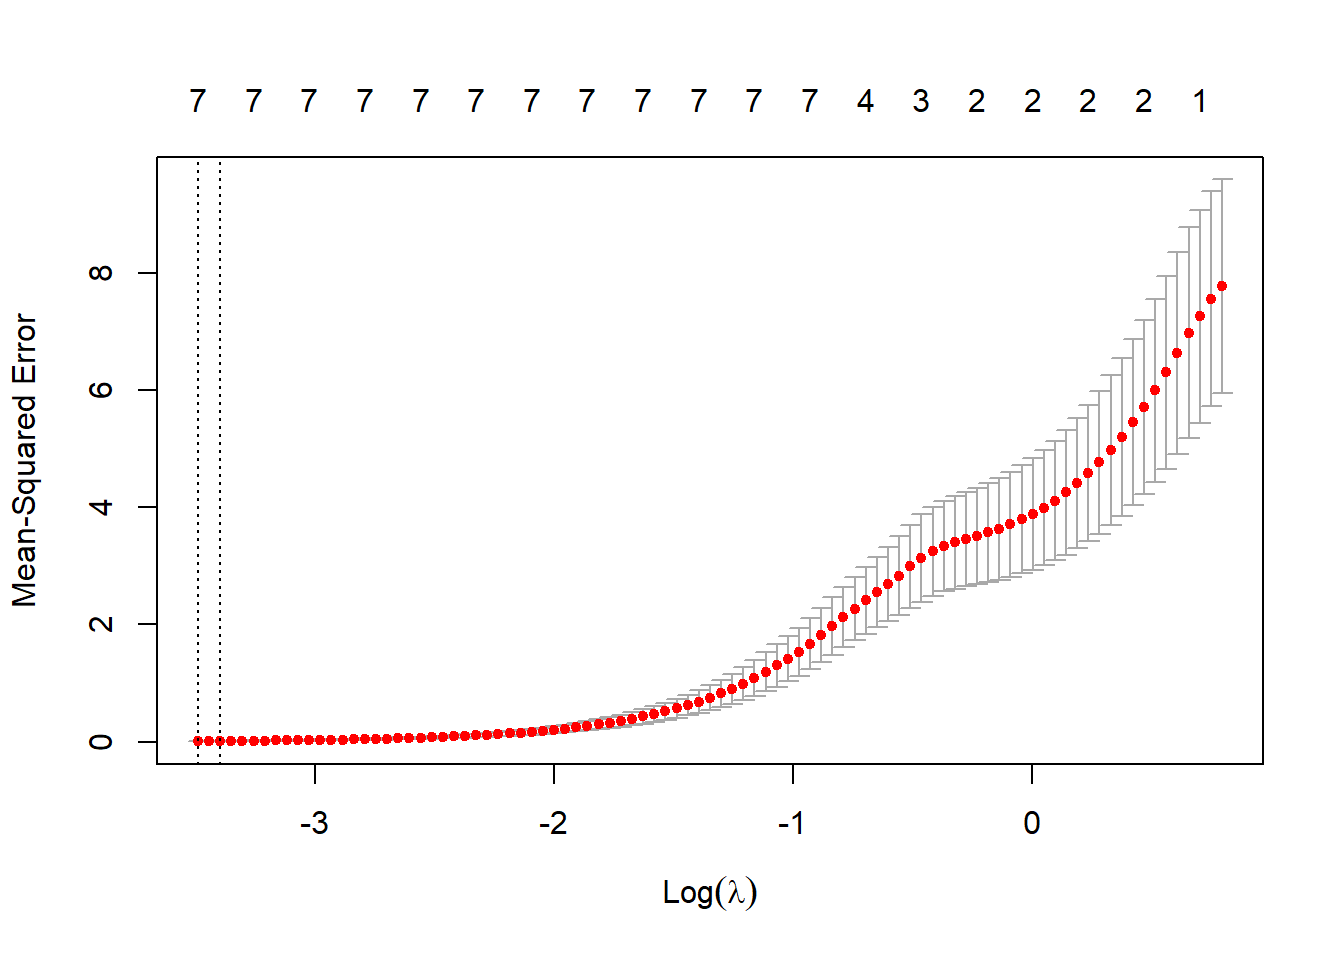
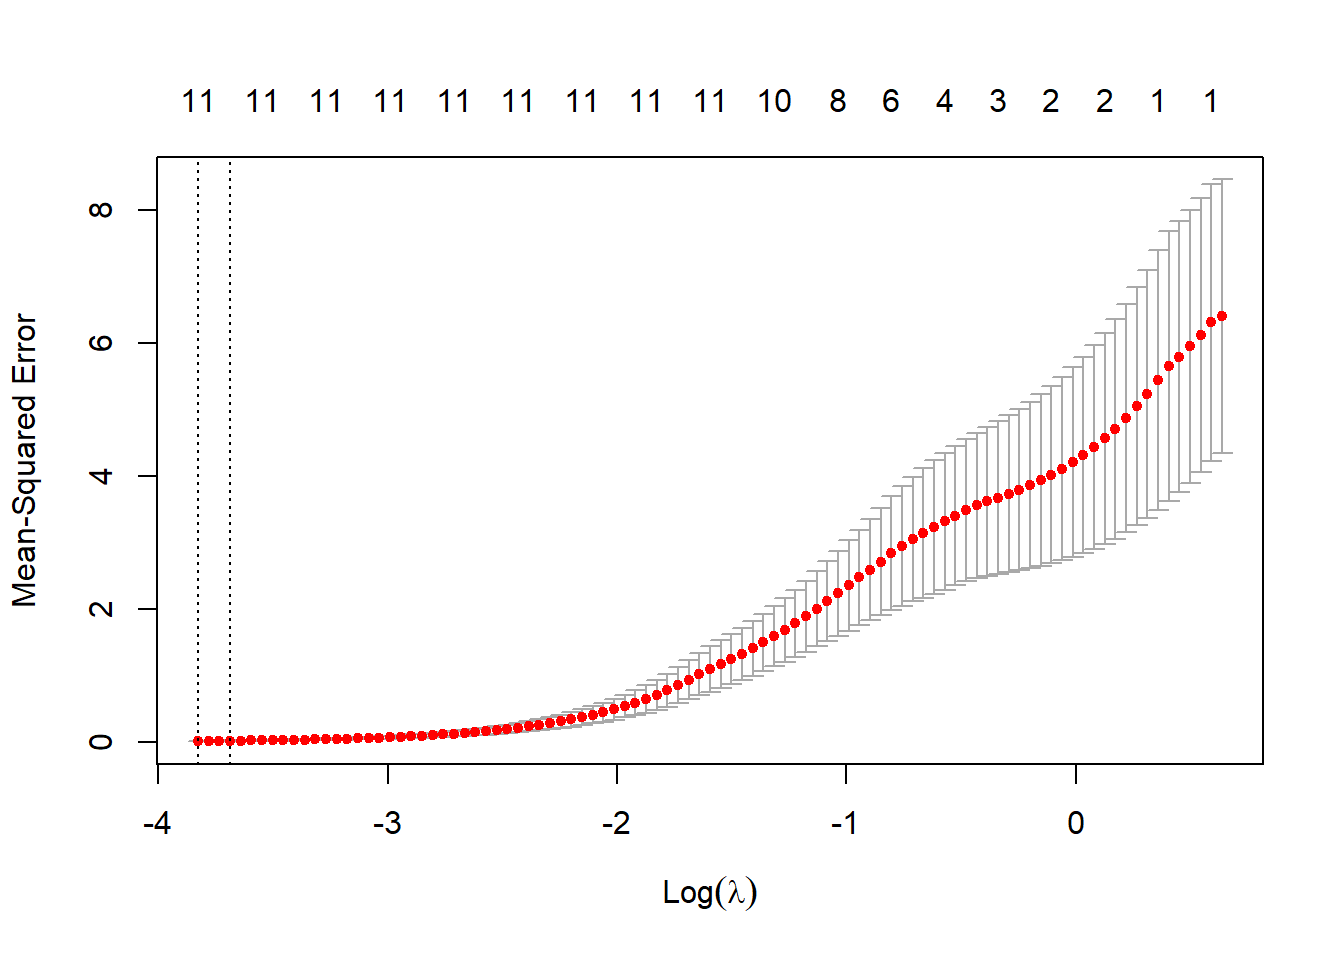
test

diff --git a/docs/HumanFreedomIndex.html b/docs/HumanFreedomIndex.html
@@ -7,7 +7,7 @@
 <meta name="viewport" content="width=device-width, initial-scale=1.0, user-scalable=yes">
 
 
-<title>An Overview of LASSO, Ridge, and Elastic Net Regularized Regression Methods - 5&nbsp; Human Freedom Index (High Dimensional Data Example)</title>
+<title>An Overview of LASSO, Ridge, and Elastic Net Regularized Regression Methods - 5&nbsp; High Dimensional Data Example with Human Freedom Index</title>
 <style>
 code{white-space: pre-wrap;}
 span.smallcaps{font-variant: small-caps;}
@@ -147,7 +147,7 @@ div.csl-indent {
   <header id="quarto-header" class="headroom fixed-top">
   <nav class="quarto-secondary-nav" data-bs-toggle="collapse" data-bs-target="#quarto-sidebar" aria-controls="quarto-sidebar" aria-expanded="false" aria-label="Toggle sidebar navigation" onclick="if (window.quartoToggleHeadroom) { window.quartoToggleHeadroom(); }">
     <div class="container-fluid d-flex justify-content-between">
-      <h1 class="quarto-secondary-nav-title"><span class="chapter-number">5</span>&nbsp; <span class="chapter-title">Human Freedom Index (High Dimensional Data Example)</span></h1>
+      <h1 class="quarto-secondary-nav-title"><span class="chapter-number">5</span>&nbsp; <span class="chapter-title">High Dimensional Data Example with Human Freedom Index</span></h1>
       <button type="button" class="quarto-btn-toggle btn" aria-label="Show secondary navigation">
         <i class="bi bi-chevron-right"></i>
       </button>
@@ -230,7 +230,7 @@ div.csl-indent {
 
 <header id="title-block-header" class="quarto-title-block default">
 <div class="quarto-title">
-<h1 class="title d-none d-lg-block"><span class="chapter-number">5</span>&nbsp; <span class="chapter-title">Human Freedom Index (High Dimensional Data Example)</span></h1>
+<h1 class="title d-none d-lg-block"><span class="chapter-number">5</span>&nbsp; <span class="chapter-title">High Dimensional Data Example with Human Freedom Index</span></h1>
 </div>
 
 
@@ -273,7 +273,7 @@ div.csl-indent {
 <span id="cb1-18"><a href="#cb1-18" aria-hidden="true" tabindex="-1"></a>predictors <span class="ot">&lt;-</span> <span class="fu">data.matrix</span>(xtrain)</span>
 <span id="cb1-19"><a href="#cb1-19" aria-hidden="true" tabindex="-1"></a>resp <span class="ot">&lt;-</span> ytrain</span>
 <span id="cb1-20"><a href="#cb1-20" aria-hidden="true" tabindex="-1"></a></span>
-<span id="cb1-21"><a href="#cb1-21" aria-hidden="true" tabindex="-1"></a>linModel <span class="ot">&lt;-</span> <span class="fu">lm</span>(hf_score<span class="sc">~</span>., <span class="at">data=</span>xtrainLin)</span></code><button title="Copy to Clipboard" class="code-copy-button"><i class="bi"></i></button></pre></div>
+<span id="cb1-21"><a href="#cb1-21" aria-hidden="true" tabindex="-1"></a>linModel <span class="ot">&lt;-</span> <span class="fu">lm</span>(pf_ss_homicide<span class="sc">~</span>., <span class="at">data=</span>xtrainLin)</span></code><button title="Copy to Clipboard" class="code-copy-button"><i class="bi"></i></button></pre></div>
 </div>
 <p><img src="images/HFIModel1.png" class="img-fluid" data-fig-align="center" alt="Model Output"> <img src="images/HFModel2.png" class="img-fluid" data-fig-align="center" alt="Model Output"></p>
 <p>The figures above the show the outcome of trying to fit a traditional linear model to the data as it is. The model is not workable due to a lack of degrees of freedom to fit the number of predictors in the data set. In this case, the number of predictors could be trimmed at random to get a working model, but the regularization techniques can be used to evaluate this data set without randomly choosing predictors.</p>
@@ -291,14 +291,15 @@ div.csl-indent {
 <li>Store results and display scores for each method.</li>
 </ul>
 <div class="cell">
-<div class="sourceCode cell-code" id="cb2"><pre class="sourceCode r code-with-copy"><code class="sourceCode r"><span id="cb2-1"><a href="#cb2-1" aria-hidden="true" tabindex="-1"></a><span class="co">#LASSO</span></span>
-<span id="cb2-2"><a href="#cb2-2" aria-hidden="true" tabindex="-1"></a>modelResults <span class="ot">&lt;-</span> <span class="fu">data.frame</span>(<span class="fu">matrix</span>(<span class="at">ncol=</span><span class="dv">6</span>,<span class="at">nrow=</span><span class="dv">0</span>))</span>
-<span id="cb2-3"><a href="#cb2-3" aria-hidden="true" tabindex="-1"></a><span class="fu">colnames</span>(modelResults)<span class="ot">&lt;-</span><span class="fu">c</span>(<span class="st">"Model"</span>,<span class="st">"Train_RSquare"</span>,<span class="st">"Train_RMSE"</span>,<span class="st">"Test_RSquare"</span>,<span class="st">"Test_RMSE"</span>,<span class="st">"CoefficientCount"</span>)</span>
-<span id="cb2-4"><a href="#cb2-4" aria-hidden="true" tabindex="-1"></a></span>
-<span id="cb2-5"><a href="#cb2-5" aria-hidden="true" tabindex="-1"></a>model <span class="ot">&lt;-</span> <span class="fu">cv.glmnet</span>(predictors, resp, <span class="at">alpha=</span><span class="dv">1</span>)</span>
-<span id="cb2-6"><a href="#cb2-6" aria-hidden="true" tabindex="-1"></a>bestLambda <span class="ot">&lt;-</span> model<span class="sc">$</span>lambda.min</span>
-<span id="cb2-7"><a href="#cb2-7" aria-hidden="true" tabindex="-1"></a><span class="co">#Optimal Lambda has been fit.</span></span>
-<span id="cb2-8"><a href="#cb2-8" aria-hidden="true" tabindex="-1"></a><span class="fu">plot</span>(model)</span></code><button title="Copy to Clipboard" class="code-copy-button"><i class="bi"></i></button></pre></div>
+<div class="sourceCode cell-code" id="cb2"><pre class="sourceCode r code-with-copy"><code class="sourceCode r"><span id="cb2-1"><a href="#cb2-1" aria-hidden="true" tabindex="-1"></a><span class="fu">set.seed</span>(<span class="dv">250</span>)</span>
+<span id="cb2-2"><a href="#cb2-2" aria-hidden="true" tabindex="-1"></a><span class="co">#LASSO</span></span>
+<span id="cb2-3"><a href="#cb2-3" aria-hidden="true" tabindex="-1"></a>modelResults <span class="ot">&lt;-</span> <span class="fu">data.frame</span>(<span class="fu">matrix</span>(<span class="at">ncol=</span><span class="dv">6</span>,<span class="at">nrow=</span><span class="dv">0</span>))</span>
+<span id="cb2-4"><a href="#cb2-4" aria-hidden="true" tabindex="-1"></a><span class="fu">colnames</span>(modelResults)<span class="ot">&lt;-</span><span class="fu">c</span>(<span class="st">"Model"</span>,<span class="st">"Train_RSquare"</span>,<span class="st">"Train_RMSE"</span>,<span class="st">"Test_RSquare"</span>,<span class="st">"Test_RMSE"</span>,<span class="st">"CoefficientCount"</span>)</span>
+<span id="cb2-5"><a href="#cb2-5" aria-hidden="true" tabindex="-1"></a></span>
+<span id="cb2-6"><a href="#cb2-6" aria-hidden="true" tabindex="-1"></a>model <span class="ot">&lt;-</span> <span class="fu">cv.glmnet</span>(predictors, resp, <span class="at">alpha=</span><span class="dv">1</span>)</span>
+<span id="cb2-7"><a href="#cb2-7" aria-hidden="true" tabindex="-1"></a>bestLambda <span class="ot">&lt;-</span> model<span class="sc">$</span>lambda.min</span>
+<span id="cb2-8"><a href="#cb2-8" aria-hidden="true" tabindex="-1"></a><span class="co">#Optimal Lambda has been fit.</span></span>
+<span id="cb2-9"><a href="#cb2-9" aria-hidden="true" tabindex="-1"></a><span class="fu">plot</span>(model)</span></code><button title="Copy to Clipboard" class="code-copy-button"><i class="bi"></i></button></pre></div>
 <div class="cell-output-display">
 <p><img src="HumanFreedomIndex_files/figure-html/unnamed-chunk-3-1.png" class="img-fluid" width="672"></p>
 </div>
@@ -447,30 +448,34 @@ div.csl-indent {
 <div class="sourceCode cell-code" id="cb7"><pre class="sourceCode r code-with-copy"><code class="sourceCode r"><span id="cb7-1"><a href="#cb7-1" aria-hidden="true" tabindex="-1"></a><span class="fu">print</span>(modelResults)</span></code><button title="Copy to Clipboard" class="code-copy-button"><i class="bi"></i></button></pre></div>
 <div class="cell-output cell-output-stdout">
 <pre><code>    Model Train_RSquare Train_RMSE Test_RSquare  Test_RMSE CoefficientCount
-1   LASSO     0.9990459 0.07607223    0.9989950 0.03345551                8
-2   Ridge     0.5201768 1.70598527    0.3830795 0.82889583               98
-3 ENet.25     0.9917637 0.22351202    0.9798654 0.14974664               36
-4 ENet.50     0.9976132 0.12032227    0.9974193 0.05361153               26
-5 ENet.75     0.9990565 0.07564746    0.9991774 0.03026788               11</code></pre>
+1   LASSO     0.9990923 0.06749612    0.9990924 0.04439843               12
+2   Ridge     0.4823259 1.61191674    0.4250346 1.11749396               98
+3 ENet.25     0.9879209 0.24622460    0.9742291 0.23658594               42
+4 ENet.50     0.9962717 0.13679519    0.9946073 0.10822481               31
+5 ENet.75     0.9985106 0.08646190    0.9983536 0.05979950               16</code></pre>
 </div>
 </div>
-<p>The number of coefficients selected by each individual method corresponds to how “LASSO” like or “Ridge” like the alpha parameter was set. The pure LASSO regression shows that 17 predictors were selected, while the pure Ridge Regression shows all 98 possible predictors were chosen. The Elastic Net models fall somewhere between, depending on the strength of the alpha parameter.</p>
+<p>The number of coefficients selected by each individual method corresponds to how “LASSO” like or “Ridge” like the alpha parameter was set. The pure LASSO regression shows that 13 predictors were selected, while the pure Ridge Regression shows all 98 possible predictors were chosen. The Elastic Net models fall somewhere between, depending on the strength of the alpha parameter.</p>
 <p>The LASSO selected features included:</p>
 <div class="cell">
 <div class="sourceCode cell-code" id="cb9"><pre class="sourceCode r code-with-copy"><code class="sourceCode r"><span id="cb9-1"><a href="#cb9-1" aria-hidden="true" tabindex="-1"></a><span class="fu">print</span>(LASSOCoef)</span></code><button title="Copy to Clipboard" class="code-copy-button"><i class="bi"></i></button></pre></div>
 <div class="cell-output cell-output-stdout">
-<pre><code>                        Predictor           Coefficient
-1                     (Intercept)   -0.0416896565098863
-2 pf_ss_disappearances_fatalities -0.000617444699970087
-3            pf_ss_disappearances    -0.936744080062253
-4                     pf_ss_women    -0.955155206814468
-5                           pf_ss      2.87301127967763
-6          pf_religion_harassment -0.000689073465572158
-7                     pf_religion  -0.00271880316619685
-8                  ef_legal_crime    0.0339096405942801</code></pre>
+<pre><code>                         Predictor           Coefficient
+1                      (Intercept)     0.212861151746103
+2  pf_ss_disappearances_fatalities    -0.024308696523899
+3             pf_ss_disappearances    -0.918211399986151
+4              pf_ss_women_missing  -0.00205265974106678
+5                      pf_ss_women    -0.955273895182766
+6                            pf_ss       2.8644285287074
+7           pf_religion_harassment   -0.0127988055499803
+8                      pf_religion -0.000939154259960126
+9             pf_expression_killed   0.00628540919550931
+10                  ef_legal_crime    0.0286140448517698
+11         ef_trade_movement_visit  -0.00305327797085885
+12               ef_trade_movement  -0.00209574359484415</code></pre>
 </div>
 </div>
-<p>The model with the best fit in this case was the pure LASSO model. As has been shown, this regression model can be used for predictions. More refinement can be performed. For example, in this case, there is still the likelihood that the model is overfit since 17 predictors is still a large number when compared to 93 observations. To further understand this is a matter of the underlying mechanics in the data. It is also possible that these 17 predictors still have some manner of collinearity present. Regularization, in this case, has now given a workable group of features to analyze for a refined linear model.</p>
+<p>The model with the best fit in this case was the pure LASSO model. As has been shown, this regression model can be used for predictions. More refinement can be performed. For example, in this case, there is still the likelihood that the model is overfit since 13 predictors is still a large number when compared to 93 observations. To further understand this is a matter of the underlying mechanics in the data. It is also possible that these 13 predictors still have some manner of collinearity present. Regularization, in this case, has now given a workable group of features to analyze for a refined linear model.</p>
 
 
 <div id="refs" class="references csl-bib-body hanging-indent" role="doc-bibliography" style="display: none">
